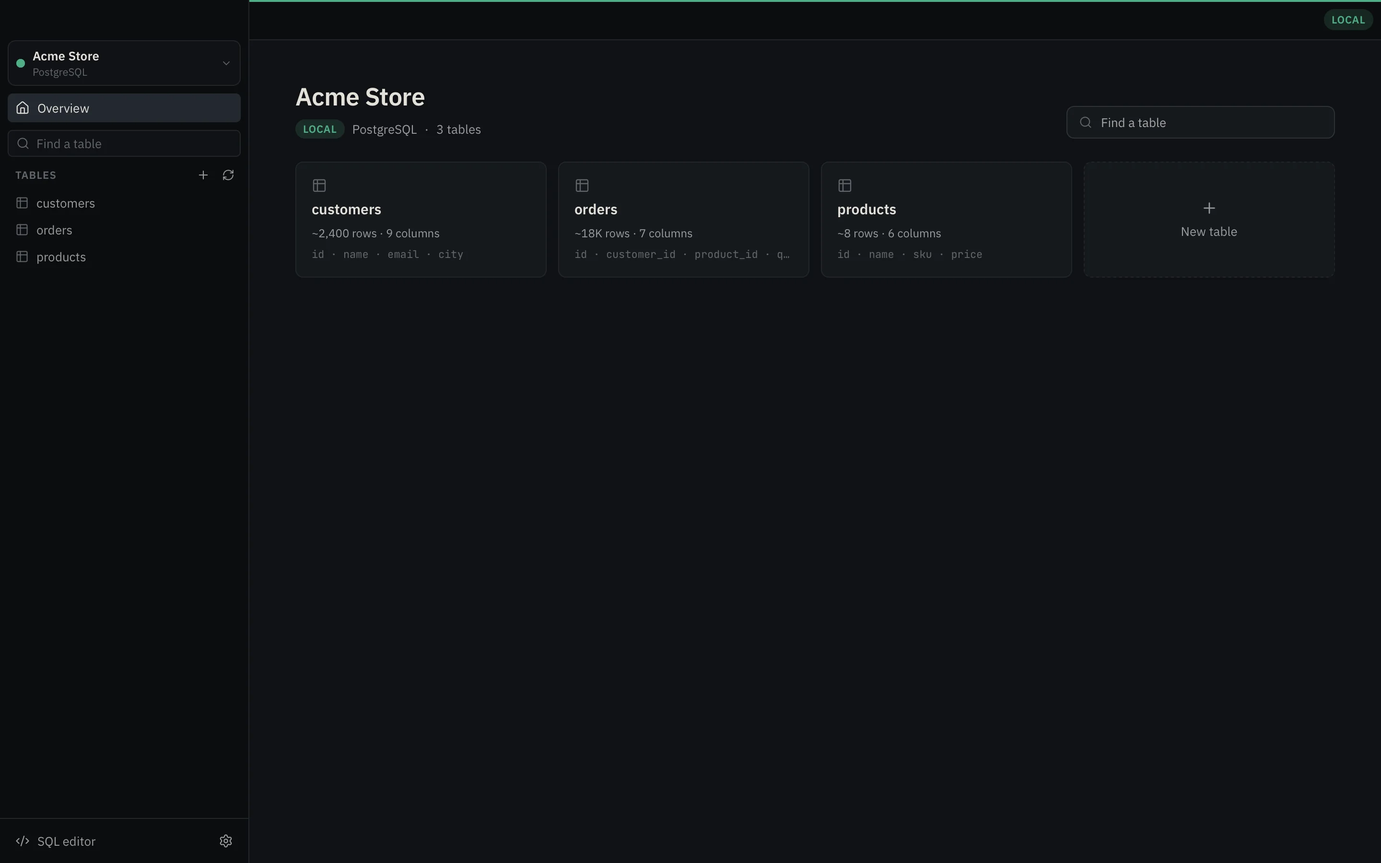
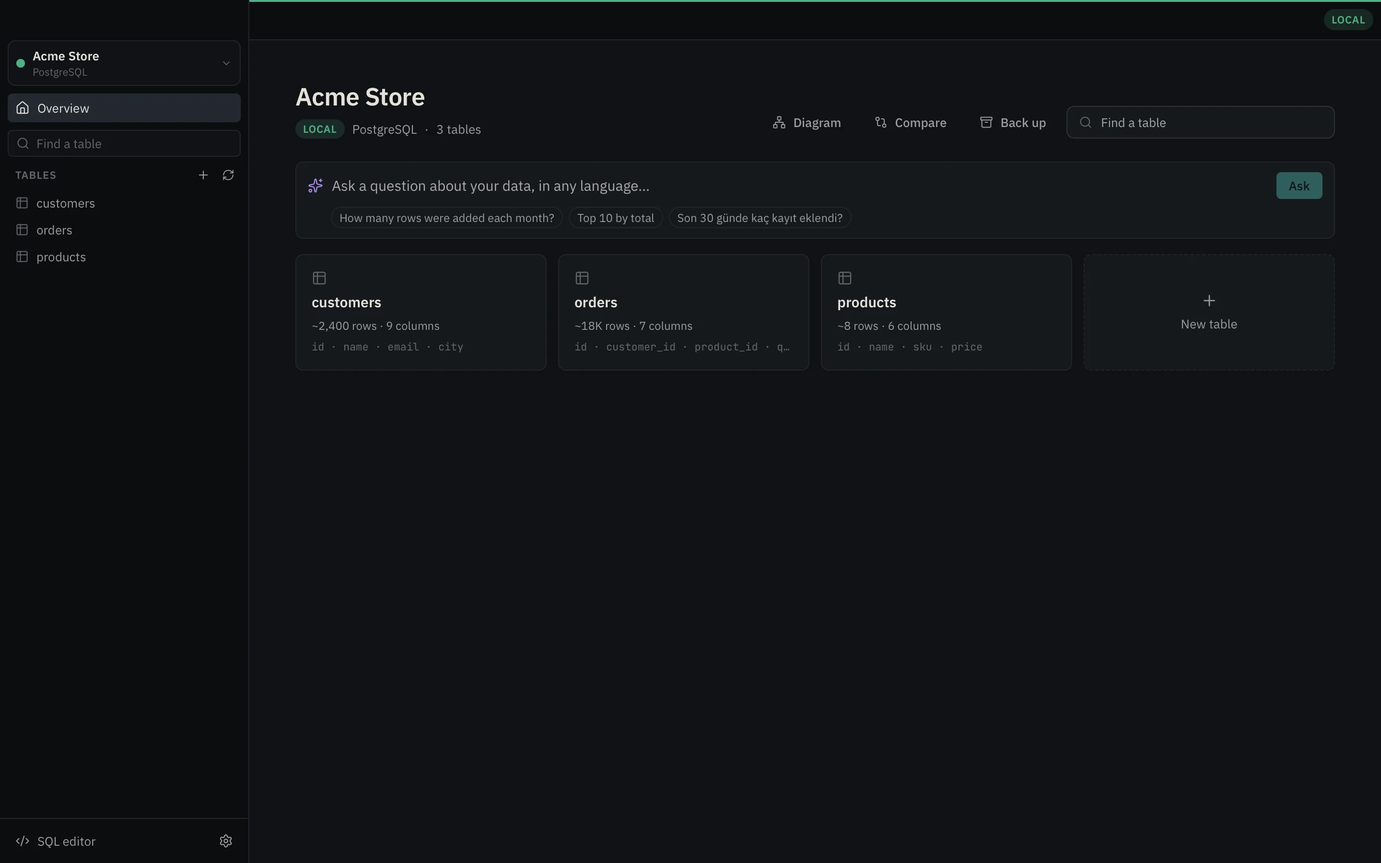
Website and README for 0.2.0
- SQL Server listed as supported, no longer "soon"; version 0.2.0.
- New "Ask a question, get a chart" section with a fresh screenshot.
- Feature cards for the SQL editor, charts, diagram and compare,
  backups, ⌘K and the grid tools, and other languages; Kubernetes and
  Cloud SQL under private networks; FAQ answers brought up to date.
- Download size is now 12 MB (0.2.0 for Apple Silicon).
- All screenshots retaken; dev/marketing.mjs follows the current
  connection dialog and adds the chart scene.

diff --git a/site/tr/index.html b/site/tr/index.html
@@ -4,7 +4,7 @@
     <meta charset="utf-8" />
     <meta name="viewport" content="width=device-width, initial-scale=1" />
     <title>Kiyi — Herkes için veritabanı uygulaması</title>
-    <meta name="description" content="PostgreSQL, MySQL, MariaDB ve SQLite veritabanlarını bir tablo gibi gez, ara, düzenle; istediğin veriyi kendi cümlelerinle sor. Ücretsiz, açık kaynak, Rust ile yazıldı." />
+    <meta name="description" content="PostgreSQL, MySQL, MariaDB, SQLite ve SQL Server veritabanlarını bir tablo gibi gez, ara, düzenle; istediğin veriyi kendi cümlelerinle sor. Ücretsiz, açık kaynak, Rust ile yazıldı." />
     <meta name="theme-color" content="#0e1013" />
     <link rel="icon" href="../assets/icon.svg" type="image/svg+xml" />
     <meta property="og:title" content="Kiyi — Herkes için veritabanı uygulaması" />
@@ -32,6 +32,10 @@
         <symbol id="i-columns" viewBox="0 0 24 24"><rect x="3" y="3" width="18" height="18" rx="2" /><path d="M9 3v18M15 3v18" /></symbol>
         <symbol id="i-transfer" viewBox="0 0 24 24"><path d="m16 3 4 4-4 4M20 7H4M8 21l-4-4 4-4M4 17h16" /></symbol>
         <symbol id="i-radar" viewBox="0 0 24 24"><circle cx="11" cy="11" r="8" /><path d="m21 21-4.3-4.3" /></symbol>
+        <symbol id="i-chart" viewBox="0 0 24 24"><path d="M3 3v16a2 2 0 0 0 2 2h16" /><path d="m19 9-5 5-4-4-3 3" /></symbol>
+        <symbol id="i-diagram" viewBox="0 0 24 24"><rect width="8" height="8" x="3" y="3" rx="2" /><path d="M7 11v4a2 2 0 0 0 2 2h4" /><rect width="8" height="8" x="13" y="13" rx="2" /></symbol>
+        <symbol id="i-archive" viewBox="0 0 24 24"><rect width="20" height="5" x="2" y="3" rx="1" /><path d="M4 8v11a2 2 0 0 0 2 2h12a2 2 0 0 0 2-2V8M10 12h4" /></symbol>
+        <symbol id="i-command" viewBox="0 0 24 24"><path d="M15 6v12a3 3 0 1 0 3-3H6a3 3 0 1 0 3 3V6a3 3 0 1 0-3 3h12a3 3 0 1 0-3-3" /></symbol>
         <symbol id="i-code" viewBox="0 0 24 24"><path d="m18 16 4-4-4-4M6 8l-4 4 4 4M14.5 4l-5 16" /></symbol>
         <symbol id="i-lock" viewBox="0 0 24 24"><rect x="3" y="11" width="18" height="11" rx="2" /><path d="M7 11V7a5 5 0 0 1 10 0v4" /></symbol>
         <symbol id="i-laptop" viewBox="0 0 24 24"><path d="M20 16V7a2 2 0 0 0-2-2H6a2 2 0 0 0-2 2v9m16 0H4m16 0 1.28 2.55a1 1 0 0 1-.9 1.45H3.62a1 1 0 0 1-.9-1.45L4 16" /></symbol>
@@ -66,10 +70,10 @@
       <section class="hero">
         <div class="horizon" aria-hidden="true"><span class="moon"></span><span class="sea"></span><span class="sand"></span></div>
         <div class="hero-copy reveal">
-          <a class="pill" href="https://github.com/parevo/kiyi/releases/latest" data-release-pill><span class="dot"></span><span><span data-version>v0.1.0</span> yayında · Ücretsiz ve açık kaynak</span> <svg class="ic"><use href="#i-arrow" /></svg></a>
+          <a class="pill" href="https://github.com/parevo/kiyi/releases/latest" data-release-pill><span class="dot"></span><span><span data-version>v0.2.0</span> yayında · Ücretsiz ve açık kaynak</span> <svg class="ic"><use href="#i-arrow" /></svg></a>
           <h1>Veritabanın,<br /><span class="gradient">nihayet dost canlısı.</span></h1>
           <p class="lede">
-            Kiyi ile herkes PostgreSQL, MySQL, MariaDB ve SQLite veritabanlarını bir hesap tablosu gibi gezip arayabilir, düzenleyebilir; istediği veriyi kendi cümleleriyle sorabilir. SQL bilmek gerekmez. İhtiyacın olan her şey, istediğin anda elinin altında.
+            Kiyi ile herkes PostgreSQL, MySQL, MariaDB, SQLite ve SQL Server veritabanlarını bir hesap tablosu gibi gezip arayabilir, düzenleyebilir; istediği veriyi kendi cümleleriyle sorabilir. SQL bilmek gerekmez. İhtiyacın olan her şey, istediğin anda elinin altında.
           </p>
           <div class="cta">
             <a class="btn" href="#download" data-primary-download><svg class="ic"><use href="#i-download" /></svg> <span data-primary-label>Kiyi'yi indir</span></a>
@@ -95,7 +99,7 @@
       <section class="strip reveal" aria-label="Desteklenen veritabanları ve AI sağlayıcıları">
         <div>
           <span class="strip-label">Desteklenenler</span>
-          <span class="chip">PostgreSQL</span><span class="chip">MySQL</span><span class="chip">MariaDB</span><span class="chip">SQLite</span><span class="chip muted">SQL Server · yakında</span>
+          <span class="chip">PostgreSQL</span><span class="chip">MySQL</span><span class="chip">MariaDB</span><span class="chip">SQLite</span><span class="chip">SQL Server</span>
         </div>
         <div>
           <span class="strip-label">AI'ını sen seç</span>
@@ -123,6 +127,25 @@
         </div>
       </section>
 
+      <section class="split reverse" id="charts">
+        <div class="split-copy reveal">
+          <span class="eyebrow ai"><svg class="ic"><use href="#i-chart" /></svg> Sorular ve grafikler</span>
+          <h2>Bir soru sor, grafiğini al.</h2>
+          <p>“Son bir yılın aylık cirosu” yaz, hangi dilde olursa. Kiyi salt okunur tek bir sorgu yazar, çalıştırır ve cevabı çizer. SQL de hemen orada: okuyabilir, değiştirebilir, kaydedebilirsin.</p>
+          <ul class="ticks">
+            <li><svg class="ic"><use href="#i-check" /></svg> <span><b>Her sonuç bir grafik olabilir.</b> Çubuk, çizgi, pasta ya da tek bir sayı; sütunlara göre seçilir, istersen değiştirirsin.</span></li>
+            <li><svg class="ic"><use href="#i-check" /></svg> <span><b>SQL'siz özetler.</b> Bir tabloyu istediğin sütuna göre grupla, tarihleri gün, ay ya da yıla göre; adetleri, toplamları ve ortalamaları gör.</span></li>
+            <li><svg class="ic"><use href="#i-check" /></svg> <span><b>SQL editöründe AI.</b> Tarif ettiğin sorguyu yazdır, bir sorguyu sade dille açıklat ya da son hatayı düzelttir.</span></li>
+          </ul>
+        </div>
+        <div class="shot reveal">
+          <picture>
+            <source srcset="../assets/shots/chart-light.webp" media="(prefers-color-scheme: light)" />
+            <img src="../assets/shots/chart-dark.webp" width="2880" height="1800" loading="lazy" alt="Bir sorudan yazılan SQL sorgusu ve aylık ciroyu gösteren çizgi grafik" />
+          </picture>
+        </div>
+      </section>
+
       <section id="speed" class="speed">
         <div class="section-head reveal">
           <span class="eyebrow"><svg class="ic"><use href="#i-zap" /></svg> Hız</span>
@@ -132,7 +155,7 @@
         <div class="stats reveal">
           <div class="stat"><b>0,31<small> sn</small></b><span>tıklamadan pencereye</span></div>
           <div class="stat"><b>79<small> MB</small></b><span>boştayken bellek</span></div>
-          <div class="stat"><b>8,6<small> MB</small></b><span>indirme boyutu</span></div>
+          <div class="stat"><b>12<small> MB</small></b><span>indirme boyutu</span></div>
           <div class="stat"><b>~1<small> ms</small></b><span>1 milyon satırlık tabloyu açmak, sıralamak, filtrelemek</span></div>
         </div>
         <div class="race reveal" role="img" aria-label="Bir milyon satırı okumak: PostgreSQL'de Kiyi 0,77 saniye, psql 0,92 saniye; MySQL'de Kiyi 0,68 saniye, mysql 0,98 saniye">
@@ -180,12 +203,12 @@
           <article class="card reveal">
             <svg class="ic big"><use href="#i-network" /></svg>
             <h3>Özel ağlar</h3>
-            <p>Bastion üzerinden SSH tüneli ya da hiçbir port açmadan AWS Systems Manager.</p>
+            <p>Bastion üzerinden SSH tüneli, AWS Systems Manager, Kubernetes port-forward ya da Cloud SQL Auth Proxy.</p>
           </article>
           <article class="card reveal">
             <svg class="ic big"><use href="#i-transfer" /></svg>
             <h3>İçe ve dışa aktarma</h3>
-            <p>Her görünümü CSV ya da JSON olarak dışa aktar. CSV'yi sütun eşleştirmeyle, tek bir ya hep ya hiç işlemiyle içe al.</p>
+            <p>Her görünümü ya da sorgu sonucunu Excel, CSV veya JSON olarak dışa aktar. Excel ve CSV'yi sütun eşleştirmeyle, tek bir ya hep ya hiç işlemiyle içe al.</p>
           </article>
           <article class="card wide reveal">
             <svg class="ic big"><use href="#i-shield" /></svg>
@@ -194,8 +217,33 @@
           </article>
           <article class="card reveal">
             <svg class="ic big"><use href="#i-code" /></svg>
-            <h3>Geliştirici modu</h3>
-            <p>Her işlemin arkasındaki SQL'i, ham tipleri ve şemayı tanıyan otomatik tamamlamalı bir SQL editörünü gör.</p>
+            <h3>Gerçek bir SQL editörü</h3>
+            <p>Şemayı tanıyan otomatik tamamlama, biçimlendirme, okunabilir sorgu planları, geçmiş ve kayıtlı sorgular; Geliştirici modunda her işlemin arkasındaki SQL.</p>
+          </article>
+          <article class="card reveal">
+            <svg class="ic big"><use href="#i-chart" /></svg>
+            <h3>Grafikler ve özetler</h3>
+            <p>Her sonucu çubuk, çizgi, pasta ya da tek bir sayı olarak gör. Bir tabloyu SQL yazmadan istediğin sütuna göre grupla.</p>
+          </article>
+          <article class="card reveal">
+            <svg class="ic big"><use href="#i-diagram" /></svg>
+            <h3>Diyagram ve karşılaştırma</h3>
+            <p>Tüm tabloları ve aralarındaki bağları gör. İki veritabanını karşılaştır, onları eşitleyecek SQL'i al.</p>
+          </article>
+          <article class="card reveal">
+            <svg class="ic big"><use href="#i-archive" /></svg>
+            <h3>Yedekle ve geri yükle</h3>
+            <p>Kuruluysa pg_dump ya da mysqldump ile, değilse Kiyi'nin kendi yedeğiyle. Geri yüklemeden önce veritabanının adını sorar.</p>
+          </article>
+          <article class="card wide reveal">
+            <svg class="ic big"><use href="#i-command" /></svg>
+            <h3>Daha hızlı çalış</h3>
+            <p>⌘K ile her tabloya, sorguya ya da bağlantıya atla. Kayıtlı görünümler, gizlenen ve sabitlenen sütunlar, seçili hücrelerin toplamı; satırları CSV, Markdown, JSON ya da INSERT olarak kopyala, bir sütunda bul ve değiştir.</p>
+          </article>
+          <article class="card reveal">
+            <svg class="ic big"><use href="#i-sparkles" /></svg>
+            <h3>Senin dilini konuşur</h3>
+            <p>Türkçe, İngilizce, Almanca ya da hangi dilde istersen sor. Türkçe ve diğer kodlamalardaki Excel ve CSV dosyaları doğru içeri gelir.</p>
           </article>
         </div>
       </section>
@@ -227,6 +275,7 @@
           <ul class="ticks">
             <li><svg class="ic"><use href="#i-check" /></svg> <span><b>SSH:</b> şifre, anahtar dosyası ya da ssh-agent; sunucunun kimliği hatırlanır ve doğrulanır.</span></li>
             <li><svg class="ic"><use href="#i-check" /></svg> <span><b>AWS SSM:</b> SSH portu açık olmayan bir EC2 üzerinden RDS'e ulaş.</span></li>
+            <li><svg class="ic"><use href="#i-check" /></svg> <span><b>Kubernetes ve Cloud SQL:</b> bir servise ya da pod'a port-forward yap ya da Cloud SQL Auth Proxy üzerinden bağlan.</span></li>
             <li><svg class="ic"><use href="#i-check" /></svg> <span><b>Keychain:</b> şifreler ve anahtarlar bir dosyada değil, sistemin anahtar zincirinde durur.</span></li>
           </ul>
         </div>
@@ -252,7 +301,7 @@
       <section id="download" class="download">
         <div class="section-head reveal">
           <span class="eyebrow"><svg class="ic"><use href="#i-download" /></svg> İndir</span>
-          <h2>Kiyi <span data-version>v0.1.0</span> sürümünü indir</h2>
+          <h2>Kiyi <span data-version>v0.2.0</span> sürümünü indir</h2>
           <p class="muted">Ücretsiz. Arka planda kendini günceller, yeniden başlatmadan önce sorar.</p>
         </div>
         <div class="downloads">
@@ -279,7 +328,7 @@
         <div class="faq-list reveal">
           <details>
             <summary>SQL bilmem gerekiyor mu?</summary>
-            <p>Hayır. Gezinme, arama, filtreleme, düzenleme, içe aktarma ve tablo tasarlama; hepsi butonlarla ve sade bir dille çalışır. SQL biliyorsan Geliştirici modunu aç: SQL editörüne erişir, her işlemin arkasındaki komutları görürsün.</p>
+            <p>Hayır. Gezinme, arama, filtreleme, düzenleme, içe aktarma, grafik çizme ve tablo tasarlama; hepsi butonlarla ve sade bir dille çalışır, sorularını da istediğin dilde sorabilirsin. SQL biliyorsan SQL editörü bir tık uzağında; Geliştirici modu da her işlemin arkasındaki komutları gösterir.</p>
           </details>
           <details>
             <summary>AI verilerimi görüyor mu?</summary>
@@ -291,11 +340,11 @@
           </details>
           <details>
             <summary>Özel ağdaki bir veritabanına nasıl bağlanırım?</summary>
-            <p>Bir bastion sunucusu üzerinden geçmek için “SSH tunnel”, Systems Manager ile bir EC2 üzerinden geçmek için “AWS SSM” seç. Bağlantı testi her adımı gösterir: tünel, giriş, yönlendirme, veritabanı.</p>
+            <p>“Connect through” altında bir bastion sunucusu üzerinden geçmek için SSH, Systems Manager ile bir EC2 üzerinden geçmek için AWS SSM, bir servise port-forward için Kubernetes ya da Cloud SQL Auth Proxy için Cloud SQL seç. Bağlantı testi her adımı gösterir: tünel, giriş, yönlendirme, veritabanı.</p>
           </details>
           <details>
             <summary>Hangi veritabanları destekleniyor?</summary>
-            <p>Bugün PostgreSQL, MySQL, MariaDB ve SQLite. Sırada SQL Server var. Kiyi'nin çekirdeği, yeni veritabanları uygulamayı değiştirmeden eklenebilecek şekilde tasarlandı.</p>
+            <p>PostgreSQL, MySQL, MariaDB, SQLite ve SQL Server (2017 ve sonrası, Azure SQL dahil). Kiyi'nin çekirdeği, yeni veritabanları uygulamayı değiştirmeden eklenebilecek şekilde tasarlandı.</p>
           </details>
           <details>
             <summary>Ücreti ne kadar?</summary>

diff --git a/site/index.html b/site/index.html
@@ -4,7 +4,7 @@
     <meta charset="utf-8" />
     <meta name="viewport" content="width=device-width, initial-scale=1" />
     <title>Kiyi — The database app for everyone</title>
-    <meta name="description" content="Browse, search and edit PostgreSQL, MySQL, MariaDB and SQLite like a spreadsheet, and ask for data in plain words. Free, open source, built in Rust." />
+    <meta name="description" content="Browse, search and edit PostgreSQL, MySQL, MariaDB, SQLite and SQL Server like a spreadsheet, and ask for data in plain words. Free, open source, built in Rust." />
     <meta name="theme-color" content="#0e1013" />
     <link rel="icon" href="assets/icon.svg" type="image/svg+xml" />
     <meta property="og:title" content="Kiyi — The database app for everyone" />
@@ -31,6 +31,10 @@
         <symbol id="i-columns" viewBox="0 0 24 24"><rect x="3" y="3" width="18" height="18" rx="2" /><path d="M9 3v18M15 3v18" /></symbol>
         <symbol id="i-transfer" viewBox="0 0 24 24"><path d="m16 3 4 4-4 4M20 7H4M8 21l-4-4 4-4M4 17h16" /></symbol>
         <symbol id="i-radar" viewBox="0 0 24 24"><circle cx="11" cy="11" r="8" /><path d="m21 21-4.3-4.3" /></symbol>
+        <symbol id="i-chart" viewBox="0 0 24 24"><path d="M3 3v16a2 2 0 0 0 2 2h16" /><path d="m19 9-5 5-4-4-3 3" /></symbol>
+        <symbol id="i-diagram" viewBox="0 0 24 24"><rect width="8" height="8" x="3" y="3" rx="2" /><path d="M7 11v4a2 2 0 0 0 2 2h4" /><rect width="8" height="8" x="13" y="13" rx="2" /></symbol>
+        <symbol id="i-archive" viewBox="0 0 24 24"><rect width="20" height="5" x="2" y="3" rx="1" /><path d="M4 8v11a2 2 0 0 0 2 2h12a2 2 0 0 0 2-2V8M10 12h4" /></symbol>
+        <symbol id="i-command" viewBox="0 0 24 24"><path d="M15 6v12a3 3 0 1 0 3-3H6a3 3 0 1 0 3 3V6a3 3 0 1 0-3 3h12a3 3 0 1 0-3-3" /></symbol>
         <symbol id="i-code" viewBox="0 0 24 24"><path d="m18 16 4-4-4-4M6 8l-4 4 4 4M14.5 4l-5 16" /></symbol>
         <symbol id="i-lock" viewBox="0 0 24 24"><rect x="3" y="11" width="18" height="11" rx="2" /><path d="M7 11V7a5 5 0 0 1 10 0v4" /></symbol>
         <symbol id="i-laptop" viewBox="0 0 24 24"><path d="M20 16V7a2 2 0 0 0-2-2H6a2 2 0 0 0-2 2v9m16 0H4m16 0 1.28 2.55a1 1 0 0 1-.9 1.45H3.62a1 1 0 0 1-.9-1.45L4 16" /></symbol>
@@ -65,10 +69,10 @@
       <section class="hero">
         <div class="horizon" aria-hidden="true"><span class="moon"></span><span class="sea"></span><span class="sand"></span></div>
         <div class="hero-copy reveal">
-          <a class="pill" href="https://github.com/parevo/kiyi/releases/latest" data-release-pill><span class="dot"></span><span><span data-version>v0.1.0</span> is out · Free and open source</span> <svg class="ic"><use href="#i-arrow" /></svg></a>
+          <a class="pill" href="https://github.com/parevo/kiyi/releases/latest" data-release-pill><span class="dot"></span><span><span data-version>v0.2.0</span> is out · Free and open source</span> <svg class="ic"><use href="#i-arrow" /></svg></a>
           <h1>Your database,<br /><span class="gradient">finally friendly.</span></h1>
           <p class="lede">
-            Kiyi lets anyone browse, search and edit PostgreSQL, MySQL, MariaDB and SQLite like a spreadsheet, and ask for data in plain words. No SQL required. All of it there the moment you want it.
+            Kiyi lets anyone browse, search and edit PostgreSQL, MySQL, MariaDB, SQLite and SQL Server like a spreadsheet, and ask for data in plain words. No SQL required. All of it there the moment you want it.
           </p>
           <div class="cta">
             <a class="btn" href="#download" data-primary-download><svg class="ic"><use href="#i-download" /></svg> <span data-primary-label>Download Kiyi</span></a>
@@ -94,7 +98,7 @@
       <section class="strip reveal" aria-label="Supported databases and AI providers">
         <div>
           <span class="strip-label">Works with</span>
-          <span class="chip">PostgreSQL</span><span class="chip">MySQL</span><span class="chip">MariaDB</span><span class="chip">SQLite</span><span class="chip muted">SQL Server · soon</span>
+          <span class="chip">PostgreSQL</span><span class="chip">MySQL</span><span class="chip">MariaDB</span><span class="chip">SQLite</span><span class="chip">SQL Server</span>
         </div>
         <div>
           <span class="strip-label">Bring your own AI</span>
@@ -122,6 +126,25 @@
         </div>
       </section>
 
+      <section class="split reverse" id="charts">
+        <div class="split-copy reveal">
+          <span class="eyebrow ai"><svg class="ic"><use href="#i-chart" /></svg> Questions &amp; charts</span>
+          <h2>Ask a question, get a chart.</h2>
+          <p>Type “monthly revenue over the last year” in any language. Kiyi writes one read-only query, runs it, and draws the answer. The SQL is right there to read, change or save.</p>
+          <ul class="ticks">
+            <li><svg class="ic"><use href="#i-check" /></svg> <span><b>Any result as a chart.</b> Bars, a line, a pie or a single figure, picked from the columns and yours to change.</span></li>
+            <li><svg class="ic"><use href="#i-check" /></svg> <span><b>Summaries without SQL.</b> Group a table by any column, dates by day, month or year, and see counts, totals and averages.</span></li>
+            <li><svg class="ic"><use href="#i-check" /></svg> <span><b>AI in the SQL editor.</b> Write a query from a description, explain one in plain words, or fix the last error.</span></li>
+          </ul>
+        </div>
+        <div class="shot reveal">
+          <picture>
+            <source srcset="assets/shots/chart-light.webp" media="(prefers-color-scheme: light)" />
+            <img src="assets/shots/chart-dark.webp" width="2880" height="1800" loading="lazy" alt="A question turned into a SQL query, with monthly revenue drawn as a line chart" />
+          </picture>
+        </div>
+      </section>
+
       <section id="speed" class="speed">
         <div class="section-head reveal">
           <span class="eyebrow"><svg class="ic"><use href="#i-zap" /></svg> Speed</span>
@@ -131,7 +154,7 @@
         <div class="stats reveal">
           <div class="stat"><b>0.31<small> s</small></b><span>from click to window</span></div>
           <div class="stat"><b>79<small> MB</small></b><span>memory at rest</span></div>
-          <div class="stat"><b>8.6<small> MB</small></b><span>download</span></div>
+          <div class="stat"><b>12<small> MB</small></b><span>download</span></div>
           <div class="stat"><b>~1<small> ms</small></b><span>to open, sort or filter a 1M-row table</span></div>
         </div>
         <div class="race reveal" role="img" aria-label="Reading one million rows: Kiyi 0.77 seconds, psql 0.92 seconds on PostgreSQL; Kiyi 0.68 seconds, mysql 0.98 seconds on MySQL">
@@ -179,12 +202,12 @@
           <article class="card reveal">
             <svg class="ic big"><use href="#i-network" /></svg>
             <h3>Private networks</h3>
-            <p>SSH tunnels through a bastion, or AWS Systems Manager without opening a port.</p>
+            <p>SSH tunnels through a bastion, AWS Systems Manager, Kubernetes port-forward or the Cloud SQL Auth Proxy.</p>
           </article>
           <article class="card reveal">
             <svg class="ic big"><use href="#i-transfer" /></svg>
             <h3>Import &amp; export</h3>
-            <p>Any view to CSV or JSON. CSV in, with column matching and one all-or-nothing transaction.</p>
+            <p>Any view or query result to Excel, CSV or JSON. Excel and CSV in, with column matching and one all-or-nothing transaction.</p>
           </article>
           <article class="card wide reveal">
             <svg class="ic big"><use href="#i-shield" /></svg>
@@ -193,8 +216,33 @@
           </article>
           <article class="card reveal">
             <svg class="ic big"><use href="#i-code" /></svg>
-            <h3>Developer mode</h3>
-            <p>See the SQL behind every action, raw types, and a SQL editor with schema-aware autocomplete.</p>
+            <h3>A real SQL editor</h3>
+            <p>Schema-aware autocomplete, formatting, readable query plans, history and saved queries, and the SQL behind every action in Developer mode.</p>
+          </article>
+          <article class="card reveal">
+            <svg class="ic big"><use href="#i-chart" /></svg>
+            <h3>Charts &amp; summaries</h3>
+            <p>Any result as bars, a line, a pie or a single figure. Group a table by any column without writing SQL.</p>
+          </article>
+          <article class="card reveal">
+            <svg class="ic big"><use href="#i-diagram" /></svg>
+            <h3>Diagram &amp; compare</h3>
+            <p>See every table and how they link. Compare two databases and get the SQL that would make them match.</p>
+          </article>
+          <article class="card reveal">
+            <svg class="ic big"><use href="#i-archive" /></svg>
+            <h3>Back up &amp; restore</h3>
+            <p>With pg_dump or mysqldump when you have them, Kiyi's own backup when you don't. Restores ask for the database's name first.</p>
+          </article>
+          <article class="card wide reveal">
+            <svg class="ic big"><use href="#i-command" /></svg>
+            <h3>Work faster</h3>
+            <p>⌘K to jump to any table, query or connection. Saved views, hidden and frozen columns, totals of the selected cells, copy rows as CSV, Markdown, JSON or INSERTs, and find and replace across a column.</p>
+          </article>
+          <article class="card reveal">
+            <svg class="ic big"><use href="#i-sparkles" /></svg>
+            <h3>Speaks your language</h3>
+            <p>Ask in English, Turkish, German or anything else. Excel and CSV files with Turkish and other encodings come in right.</p>
           </article>
         </div>
       </section>
@@ -226,6 +274,7 @@
           <ul class="ticks">
             <li><svg class="ic"><use href="#i-check" /></svg> <span><b>SSH:</b> password, key file or ssh-agent, with the server's identity remembered and checked.</span></li>
             <li><svg class="ic"><use href="#i-check" /></svg> <span><b>AWS SSM:</b> reach RDS through an EC2 instance with no open SSH port.</span></li>
+            <li><svg class="ic"><use href="#i-check" /></svg> <span><b>Kubernetes and Cloud SQL:</b> port-forward to a service or pod, or connect through the Cloud SQL Auth Proxy.</span></li>
             <li><svg class="ic"><use href="#i-check" /></svg> <span><b>Keychain:</b> passwords and keys live in your system keychain, never in a file.</span></li>
           </ul>
         </div>
@@ -251,7 +300,7 @@
       <section id="download" class="download">
         <div class="section-head reveal">
           <span class="eyebrow"><svg class="ic"><use href="#i-download" /></svg> Download</span>
-          <h2>Get Kiyi <span data-version>v0.1.0</span></h2>
+          <h2>Get Kiyi <span data-version>v0.2.0</span></h2>
           <p class="muted">Free. Updates itself in the background and asks before restarting.</p>
         </div>
         <div class="downloads">
@@ -278,7 +327,7 @@
         <div class="faq-list reveal">
           <details>
             <summary>Do I need to know SQL?</summary>
-            <p>No. Browsing, searching, filtering, editing, importing and designing tables all work with buttons and plain words. If you do know SQL, turn on Developer mode for the SQL editor and to see the statements behind every action.</p>
+            <p>No. Browsing, searching, filtering, editing, importing, charting and designing tables all work with buttons and plain words, and you can ask questions in any language. If you do know SQL, the SQL editor is one click away, and Developer mode shows the statements behind every action.</p>
           </details>
           <details>
             <summary>Does the AI see my data?</summary>
@@ -290,11 +339,11 @@
           </details>
           <details>
             <summary>How do I reach a database in a private network?</summary>
-            <p>Choose “SSH tunnel” to go through a bastion host, or “AWS SSM” to go through an EC2 instance using Systems Manager. The connection test shows each step: tunnel, sign-in, forwarding, database.</p>
+            <p>Under “Connect through”, choose SSH to go through a bastion host, AWS SSM to go through an EC2 instance using Systems Manager, Kubernetes to port-forward to a service, or Cloud SQL for the Cloud SQL Auth Proxy. The connection test shows each step: tunnel, sign-in, forwarding, database.</p>
           </details>
           <details>
             <summary>Which databases are supported?</summary>
-            <p>PostgreSQL, MySQL, MariaDB and SQLite today. SQL Server is next. Kiyi's core is built so new engines plug in without changing the app.</p>
+            <p>PostgreSQL, MySQL, MariaDB, SQLite and SQL Server (2017 and later, and Azure SQL). Kiyi's core is built so new engines plug in without changing the app.</p>
           </details>
           <details>
             <summary>What does it cost?</summary>

diff --git a/site/styles.css b/site/styles.css
@@ -794,6 +794,9 @@ details p {
   .bento {
     grid-template-columns: 1fr 1fr;
   }
+  .bento > .card:last-child {
+    grid-column: span 2;
+  }
   .privacy-grid {
     grid-template-columns: 1fr 1fr;
   }
@@ -823,7 +826,8 @@ details p {
   .privacy-grid {
     grid-template-columns: 1fr;
   }
-  .card.wide {
+  .card.wide,
+  .bento > .card:last-child {
     grid-column: auto;
   }
   .privacy {

diff --git a/README.md b/README.md
@@ -6,7 +6,7 @@
 
 <p align="center">
   <b>Your database, finally friendly.</b><br />
-  Browse, search and edit PostgreSQL, MySQL, MariaDB and SQLite like a spreadsheet, and ask for data in plain words.
+  Browse, search and edit PostgreSQL, MySQL, MariaDB, SQLite and SQL Server like a spreadsheet, and ask for data in plain words.
 </p>
 
 <p align="center">
@@ -48,13 +48,13 @@ Passwords and API keys live in the system keychain. No account, no telemetry.
 
 | | |
 | --- | --- |
-| Download | 8.6 MB |
+| Download | 12 MB |
 | Launch to window | 0.31 s |
 | Memory at idle | 79 MB |
 | Open, sort or filter a 1M-row table | ~1 ms |
 | Read all 1M rows | 0.77 s on PostgreSQL, 0.68 s on MySQL (faster than `psql` and `mysql` themselves) |
 
-Measured on an M1 Pro MacBook Pro. Full results and how to reproduce them: [docs/benchmarks.md](docs/benchmarks.md).
+Download size of Kiyi 0.2.0 for Apple Silicon; the rest measured with 0.1.0 on an M1 Pro MacBook Pro. Full results and how to reproduce them: [docs/benchmarks.md](docs/benchmarks.md).
 
 ## Install
 
